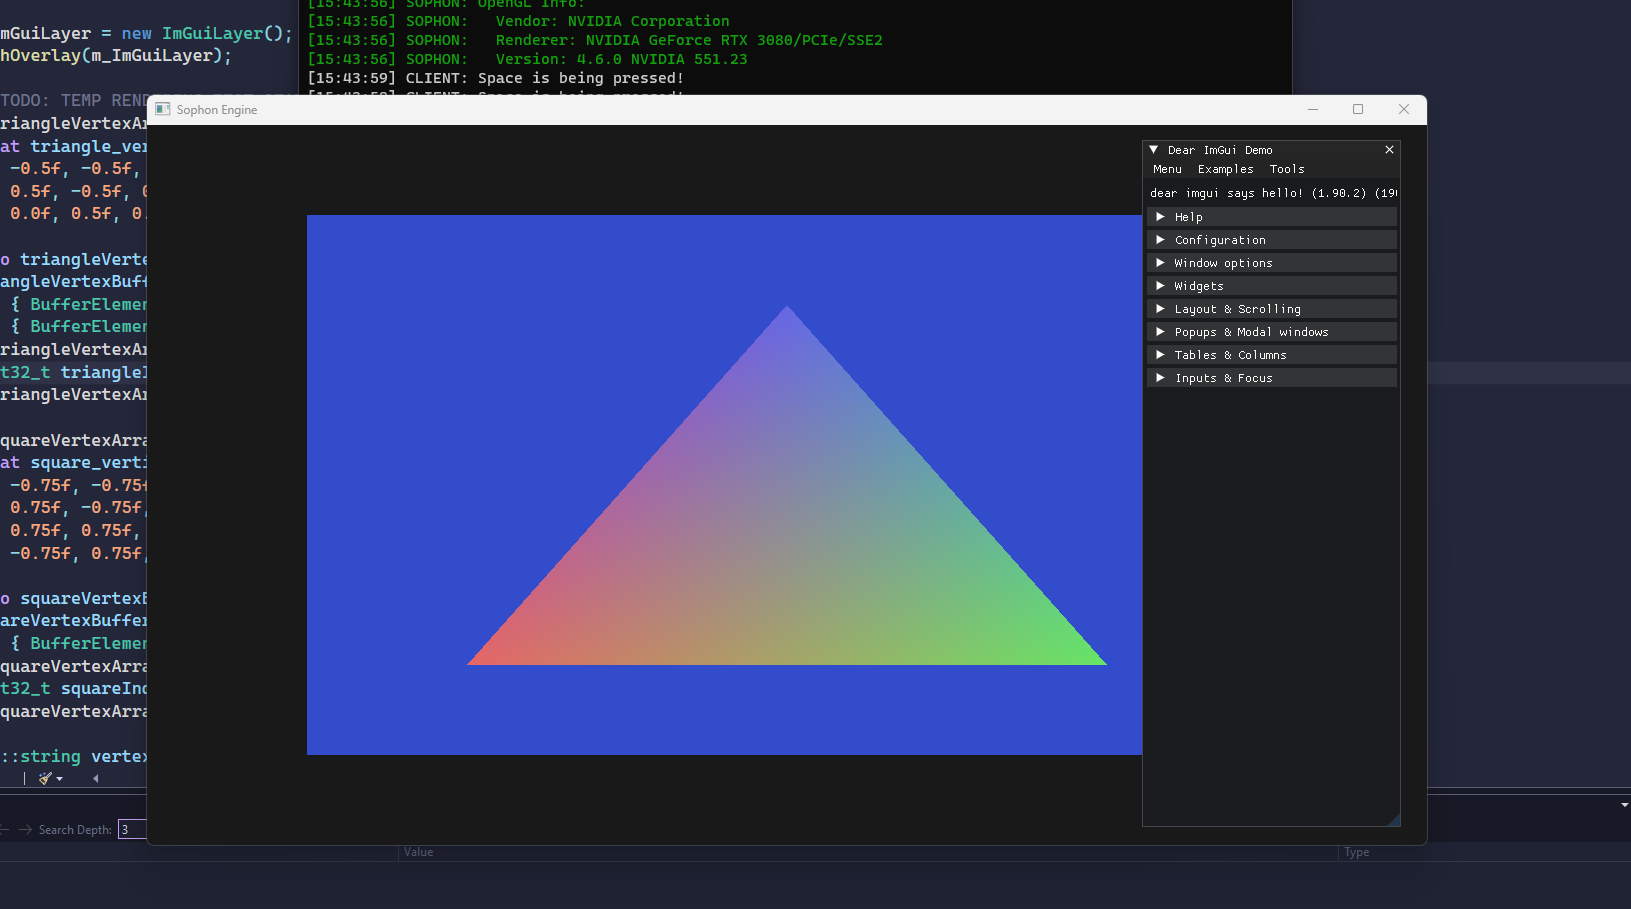
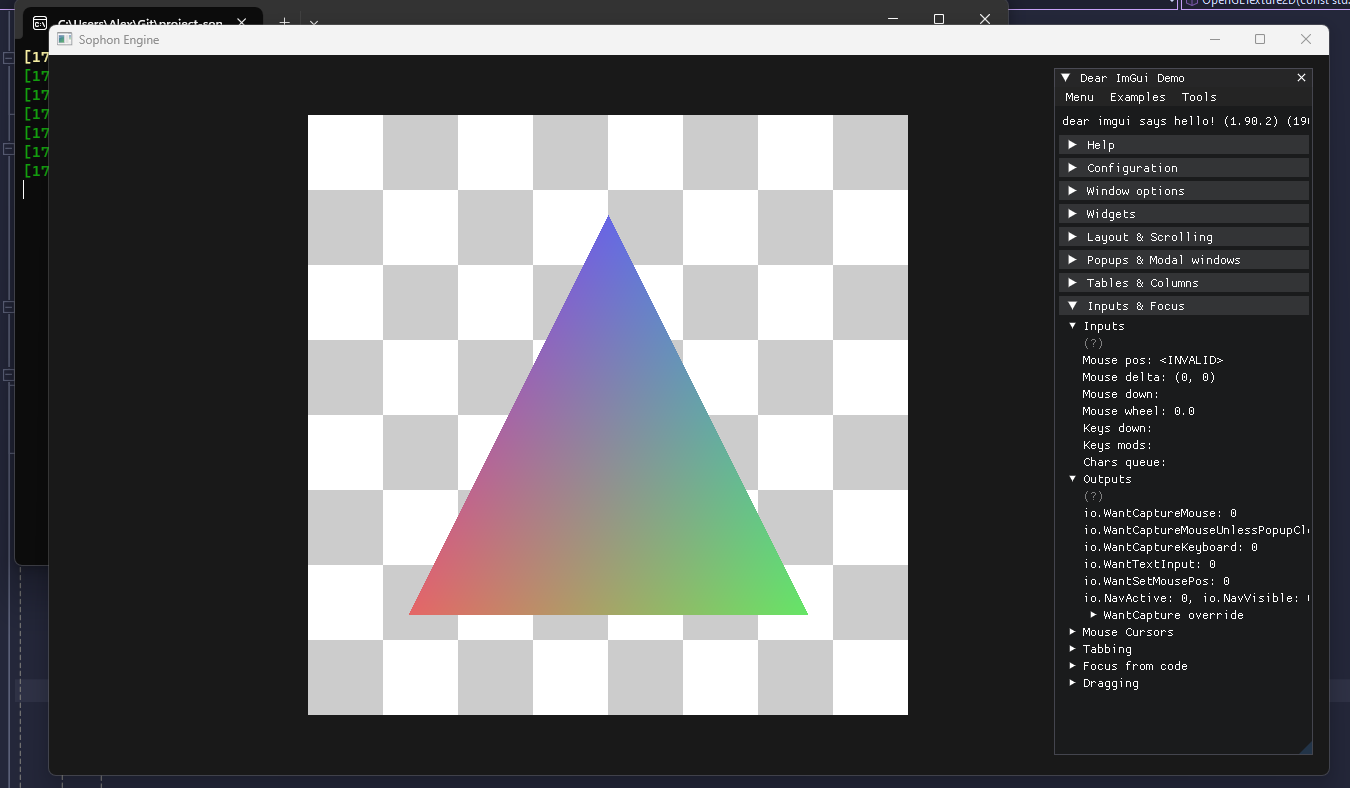
add Texture/Texture2D + basic texture shader + update App to test

diff --git a/App/Source/App.cpp b/App/Source/App.cpp
@@ -24,21 +24,23 @@ public:
         m_TriangleVertexArray->SetIndexBuffer(Sophon::IndexBuffer::Create(triangleIndices, sizeof(triangleIndices) / sizeof(uint32_t)));
 
         m_SquareVertexArray = Sophon::VertexArray::Create();
-        float square_vertices[3 * 4] = {
-            -0.5f, -0.5f, 0.0f,
-            0.5f, -0.5f, 0.0f,
-            0.5f, 0.5f, 0.0f,
-            -0.5f, 0.5f, 0.0f // clang-format-ignore
+        float square_vertices[5 * 4] = {
+            -0.5f, -0.5f, 0.0f, 0.0f, 0.0f,
+            0.5f, -0.5f, 0.0f, 1.0f, 0.0f,
+            0.5f, 0.5f, 0.0f, 1.0f, 1.0f,
+            -0.5f, 0.5f, 0.0f, 0.0f, 1.0f // clang-format-ignore
         };
         auto squareVertexBuffer = Sophon::VertexBuffer::Create(square_vertices, sizeof(square_vertices));
         squareVertexBuffer->SetLayout(Sophon::BufferLayout {
-            { Sophon::BufferElement(Sophon::ShaderDataType::Float3, "a_Position") } });
+            { Sophon::BufferElement(Sophon::ShaderDataType::Float3, "a_Position") },
+            { Sophon::BufferElement(Sophon::ShaderDataType::Float2, "a_TexCoord") }
+        });
         m_SquareVertexArray->AddVertexBuffer(squareVertexBuffer);
         uint32_t squareIndices[6] = { 0, 1, 2, 2, 3, 0 };
         m_SquareVertexArray->SetIndexBuffer(Sophon::IndexBuffer::Create(squareIndices, sizeof(squareIndices) / sizeof(uint32_t)));
 
         std::string vertexSrc = R"(
-			    #version 330 core
+			    #version 460 core
 			
 			    layout(location = 0) in vec3 a_Position;
                 layout(location = 1) in vec4 a_Color;
@@ -58,7 +60,7 @@ public:
 		    )";
 
         std::string fragmentSrc = R"(
-			    #version 330 core
+			    #version 460 core
 			
                 layout(location = 0) out vec4 color;
 
@@ -74,7 +76,7 @@ public:
         m_Shader = Sophon::Shader::Create("Shader", vertexSrc, fragmentSrc);
 
         std::string simpleColorVertexSrc = R"(
-			    #version 330 core
+			    #version 460 core
 			
 			    layout(location = 0) in vec3 a_Position;
 			    
@@ -91,7 +93,7 @@ public:
 		    )";
 
         std::string simpleColorFragmentSrc = R"(
-			    #version 330 core
+			    #version 460 core
 			
                 layout(location = 0) out vec4 color;
 
@@ -104,6 +106,44 @@ public:
 		    )";
 
         m_SimpleColorShader = Sophon::Shader::Create("SimpleColorShader", simpleColorVertexSrc, simpleColorFragmentSrc);
+
+        std::string textureVertexSrc = R"(
+			    #version 460 core
+			
+			    layout(location = 0) in vec3 a_Position;
+                layout(location = 1) in vec2 a_TexCoord;
+			    
+                uniform mat4 u_ViewProjection;
+                uniform mat4 u_Transform;
+
+                out vec2 v_TexCoord;
+			    
+                void main()
+			    {
+				    v_TexCoord = a_TexCoord;
+				    gl_Position = u_ViewProjection * u_Transform * vec4(a_Position, 1.0);	
+			    }
+		    )";
+
+        std::string textureFragmentSrc = R"(
+			    #version 460 core
+			
+                layout(location = 0) out vec4 color;
+
+			    in vec2 v_TexCoord;
+
+                uniform sampler2D u_Texture;
+
+			    void main()
+			    {
+				    color = texture(u_Texture, v_TexCoord);
+			    }
+		    )";
+
+        m_TextureShader = Sophon::Shader::Create("TextureShader", textureVertexSrc, textureFragmentSrc);
+        m_Texture = Sophon::Texture2D::Create("Assets/Textures/Checkerboard.png");
+        m_TextureShader->Bind();
+        m_TextureShader->SetInt("u_Texture", 0);
         // TODO: TEMP RENDERING TEST END
     }
 
@@ -130,19 +170,10 @@ public:
 
         Sophon::Renderer::BeginScene(m_Camera);
 
-        auto squareScale = glm::scale(glm::mat4(1.0f), glm::vec3(0.1f));
-
-        // Draw 16 small squares
-        for (int y = -8; y < 8; y++) {
-            for (int x = -8; x < 8; x++) {
-                // Setup transform
-                glm::vec3 pos(x * 0.11f, y * 0.11f, 0.0f);
-                auto transform = glm::translate(glm::mat4(1.0f), pos) * squareScale;
-
-                // Draw
-                Sophon::Renderer::Submit(m_SimpleColorShader, m_SquareVertexArray, transform);
-            }
-        }
+        m_Texture->Bind();
+        auto squareScale = glm::scale(glm::mat4(1.0f), glm::vec3(1.5f));
+        glm::vec3 squarePos(0.0f, 0.0f, 0.0f);
+        Sophon::Renderer::Submit(m_TextureShader, m_SquareVertexArray, glm::translate(glm::mat4(1.0f), squarePos) * squareScale);
 
         // Draw the triangle on top
         Sophon::Renderer::Submit(m_Shader, m_TriangleVertexArray);
@@ -161,6 +192,8 @@ private:
     Sophon::Ref<Sophon::VertexArray> m_SquareVertexArray;
     Sophon::Ref<Sophon::Shader> m_Shader;
     Sophon::Ref<Sophon::Shader> m_SimpleColorShader;
+    Sophon::Ref<Sophon::Shader> m_TextureShader;
+    Sophon::Ref<Sophon::Texture2D> m_Texture;
     Sophon::OrthographicCamera m_Camera;
     glm::vec3 m_CameraPosition;
     float m_CameraSpeed;

diff --git a/Core/Source/Platform/OpenGL/OpenGLTexture.cpp b/Core/Source/Platform/OpenGL/OpenGLTexture.cpp
@@ -1,0 +1,68 @@
+#include "sfnpch.h"
+#include "Platform/OpenGL/OpenGLTexture.h"
+
+#include <stb_image.h>
+
+namespace Sophon {
+    OpenGLTexture2D::OpenGLTexture2D(const std::string& path)
+        : m_Path(path)
+    {
+        int width, height, channels;
+        stbi_set_flip_vertically_on_load(1);
+        stbi_uc* data = nullptr;
+        {
+            data = stbi_load(path.c_str(), &width, &height, &channels, 0);
+        }
+
+        if (data) {
+            m_IsLoaded = true;
+
+            m_Width = width;
+            m_Height = height;
+
+            GLenum internalFormat = 0, dataFormat = 0;
+            if (channels == 4) {
+                internalFormat = GL_RGBA8;
+                dataFormat = GL_RGBA;
+            } else if (channels == 3) {
+                internalFormat = GL_RGB8;
+                dataFormat = GL_RGB;
+            }
+
+            m_InternalFormat = internalFormat;
+            m_DataFormat = dataFormat;
+
+            SFN_CORE_ASSERT(internalFormat & dataFormat, "Format not supported!");
+
+            glCreateTextures(GL_TEXTURE_2D, 1, &m_RendererID);
+            glTextureStorage2D(m_RendererID, 1, internalFormat, m_Width, m_Height);
+
+            glTextureParameteri(m_RendererID, GL_TEXTURE_MIN_FILTER, GL_LINEAR);
+            glTextureParameteri(m_RendererID, GL_TEXTURE_MAG_FILTER, GL_NEAREST); // TODO: Set back to GL_LINEAR
+
+            glTextureParameteri(m_RendererID, GL_TEXTURE_WRAP_S, GL_REPEAT);
+            glTextureParameteri(m_RendererID, GL_TEXTURE_WRAP_T, GL_REPEAT);
+
+            glTextureSubImage2D(m_RendererID, 0, 0, 0, m_Width, m_Height, dataFormat, GL_UNSIGNED_BYTE, data);
+
+            stbi_image_free(data);
+        }
+    }
+
+    OpenGLTexture2D::~OpenGLTexture2D()
+    {
+        glDeleteTextures(1, &m_RendererID);
+    }
+
+    void OpenGLTexture2D::SetData(void* data, uint32_t size)
+    {
+        uint32_t bpp = m_DataFormat == GL_RGBA ? 4 : 3;
+        SFN_CORE_ASSERT(size == m_Width * m_Height * bpp, "Data must be entire texture!");
+        glTextureSubImage2D(m_RendererID, 0, 0, 0, m_Width, m_Height, m_DataFormat, GL_UNSIGNED_BYTE, data);
+    }
+
+    void OpenGLTexture2D::Bind(uint32_t slot) const
+    {
+        glBindTextureUnit(slot, m_RendererID);
+    }
+}

diff --git a/Core/Source/Platform/OpenGL/OpenGLTexture.h b/Core/Source/Platform/OpenGL/OpenGLTexture.h
@@ -1,0 +1,37 @@
+#pragma once
+
+#include "Renderer/Texture.h"
+
+#include <glad/glad.h>
+
+namespace Sophon {
+    class OpenGLTexture2D : public Texture2D {
+    public:
+        OpenGLTexture2D(const std::string& path);
+        virtual ~OpenGLTexture2D();
+
+        virtual uint32_t GetWidth() const override { return m_Width; }
+        virtual uint32_t GetHeight() const override { return m_Height; }
+        virtual uint32_t GetRendererID() const override { return m_RendererID; }
+
+        virtual const std::string& GetPath() const override { return m_Path; }
+
+        virtual void SetData(void* data, uint32_t size) override;
+
+        virtual void Bind(uint32_t slot = 0) const override;
+
+        virtual bool IsLoaded() const override { return m_IsLoaded; }
+
+        virtual bool operator==(const Texture& other) const override
+        {
+            return m_RendererID == other.GetRendererID();
+        }
+
+    private:
+        std::string m_Path;
+        bool m_IsLoaded = false;
+        uint32_t m_Width, m_Height;
+        uint32_t m_RendererID;
+        GLenum m_InternalFormat, m_DataFormat;
+    };
+}

diff --git a/Core/Source/Renderer/Texture.h b/Core/Source/Renderer/Texture.h
@@ -1,0 +1,35 @@
+#pragma once
+
+namespace Sophon {
+    enum class ImageFormat {
+        None = 0,
+        R8,
+        RGB8,
+        RGBA8,
+        RGBA32F
+    };
+
+    class Texture {
+    public:
+        virtual ~Texture() = default;
+
+        virtual uint32_t GetWidth() const = 0;
+        virtual uint32_t GetHeight() const = 0;
+        virtual uint32_t GetRendererID() const = 0;
+
+        virtual const std::string& GetPath() const = 0;
+
+        virtual void SetData(void* data, uint32_t size) = 0;
+
+        virtual void Bind(uint32_t slot = 0) const = 0;
+
+        virtual bool IsLoaded() const = 0;
+
+        virtual bool operator==(const Texture& other) const = 0;
+    };
+
+    class Texture2D : public Texture {
+    public:
+        static Ref<Texture2D> Create(const std::string& path);
+    };
+}

diff --git a/Core/Source/Renderer/Texture.cpp b/Core/Source/Renderer/Texture.cpp
@@ -1,0 +1,22 @@
+#include "sfnpch.h"
+#include "Renderer/Texture.h"
+
+#include "Renderer/Renderer.h"
+#include "Platform/OpenGL/OpenGLTexture.h"
+
+namespace Sophon {
+
+    Ref<Texture2D> Texture2D::Create(const std::string& path)
+    {
+        switch (Renderer::GetAPI()) {
+        case RendererAPI::API::None:
+            SFN_CORE_ASSERT(false, "RendererAPI::None is currently not supported!");
+            return nullptr;
+        case RendererAPI::API::OpenGL:
+            return CreateRef<OpenGLTexture2D>(path);
+        }
+
+        SFN_CORE_ASSERT(false, SFN_ERR_UNKOWN_RENDER_API);
+        return nullptr;
+    }
+}

diff --git a/Core/Source/Core/Assert.h b/Core/Source/Core/Assert.h
@@ -18,6 +18,11 @@
 // Currently accepts at least the condition and one additional parameter (the message) being optional
 #define SFN_ASSERT(...) SFN_EXPAND_MACRO(SFN_INTERNAL_ASSERT_GET_MACRO(__VA_ARGS__)(_, __VA_ARGS__))
 #define SFN_CORE_ASSERT(...) SFN_EXPAND_MACRO(SFN_INTERNAL_ASSERT_GET_MACRO(__VA_ARGS__)(_CORE_, __VA_ARGS__))
+
+// Common Error Messages
+#define SFN_ERR_RENDER_API_NONE_NOT_SUPPORTED "RendererAPI::None is not currently supported!"
+#define SFN_ERR_UNKOWN_RENDER_API "Unknown RendererAPI!"
+
 #else
 #define SFN_ASSERT(...)
 #define SFN_CORE_ASSERT(...)

diff --git a/Core/Source/Sophon.h b/Core/Source/Sophon.h
@@ -24,6 +24,7 @@
 
 #include "Renderer/Buffer.h"
 #include "Renderer/Shader.h"
+#include "Renderer/Texture.h"
 #include "Renderer/VertexArray.h"
 
 #include "Renderer/OrthographicCamera.h"

diff --git a/README.md b/README.md
@@ -4,7 +4,7 @@ An exercise in what's possible.
 
 ## Renderer Status
 
-![RendererScreenshot](Docs/Img/screenshot.png)
+![RendererScreenshot](Docs/Img/Screenshot.png)
 *Rendered in Engine =)*
 
 ## Development Quick Start
@@ -52,12 +52,16 @@ An exercise in what's possible.
     - [x] IndexBuffer
     - [x] VertexArray
     - [x] Shader
+    - [x] Texture
+      - [x] Texture2D
   - [ ] OpenGL Renderer
     - [x] VertexBuffer
     - [x] VertexBufferLayout
     - [x] IndexBuffer
     - [x] VertexArray
     - [x] Shader
+    - [x] Texture
+      - [x] Texture2D
   - [ ] Camera
     - [x] 2D Orthographic
     - [ ] 3D Orthographic
